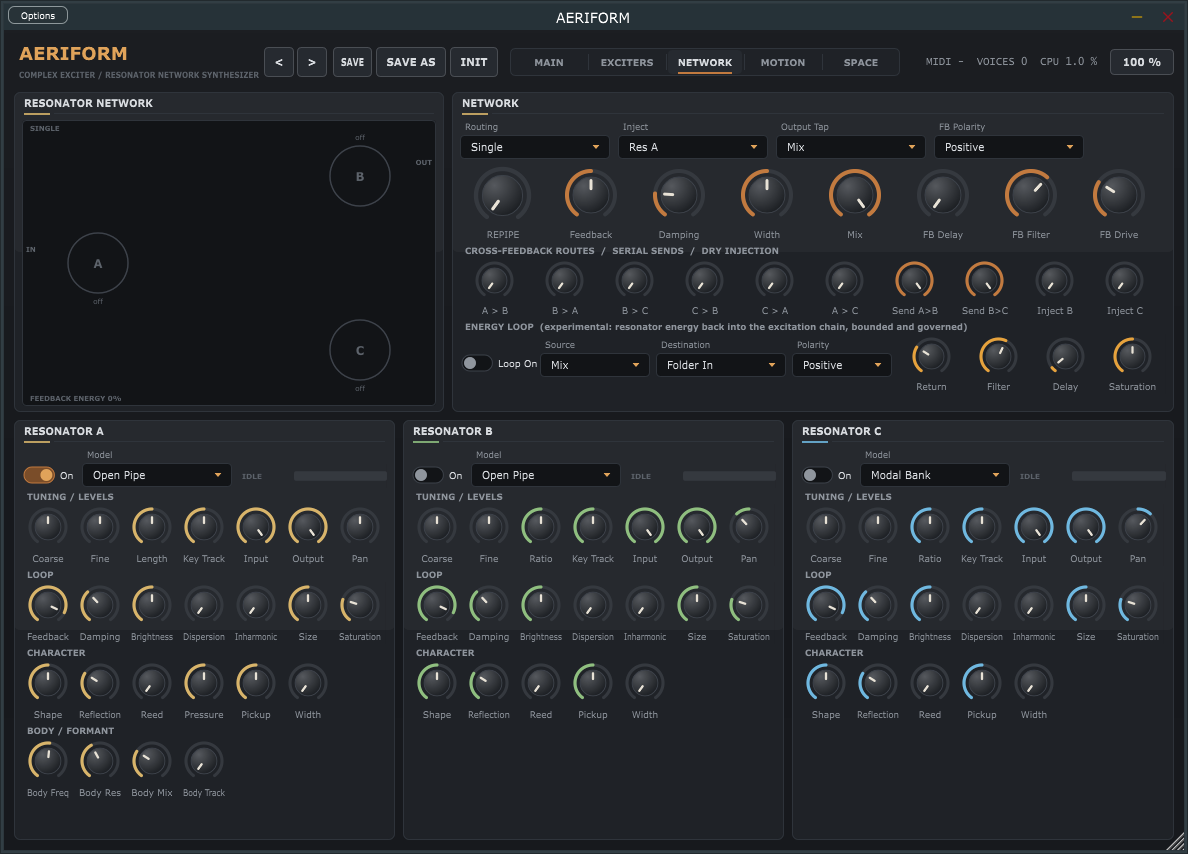
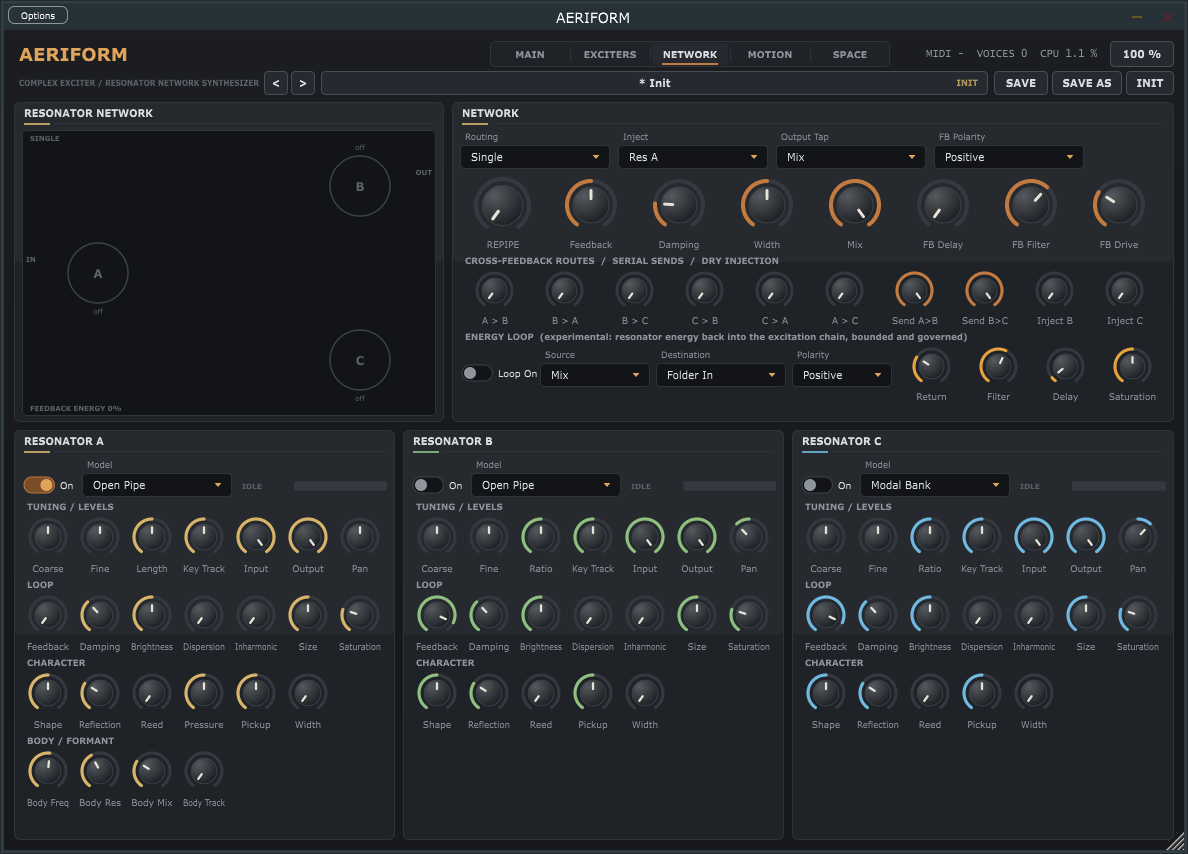
GUI: restore the preset browser (two-row top bar: tabs beside the title, full-width preset name / menu); refresh screenshots

diff --git a/Source/Plugin/PluginEditor.cpp b/Source/Plugin/PluginEditor.cpp
@@ -115,20 +115,20 @@ void AeriformEditor::layoutContent()
 {
     auto r = juce::Rectangle<int> (0, 0, editorWidth, editorHeight).reduced (10);
 
-    // ---- top bar -----------------------------------------------------------
-    auto top = r.removeFromTop (44);
-    auto titleArea = top.removeFromLeft (250);
-    titleLabel.setBounds (titleArea.removeFromTop (26));
-    subtitleLabel.setBounds (titleArea);
-    scaleButton.setBounds (top.removeFromRight (64).reduced (0, 9));
-    top.removeFromRight (8);
-    statusLabel.setBounds (top.removeFromRight (190).reduced (0, 8));
-    top.removeFromRight (12);
-    auto tabArea = top.removeFromRight (390).reduced (0, 8);
-    top.removeFromRight (12);
-    tabs.setBounds (tabArea);
-    presetBar.setBounds (top.reduced (0, 7));
-    r.removeFromTop (8);
+    // ---- top bar: row 1 = title, page tabs, status, size; row 2 = subtitle + the full-width preset browser
+    auto top = r.removeFromTop (56);
+    auto row1 = top.removeFromTop (28);
+    titleLabel.setBounds (row1.removeFromLeft (250));
+    scaleButton.setBounds (row1.removeFromRight (64).reduced (0, 1));
+    row1.removeFromRight (8);
+    statusLabel.setBounds (row1.removeFromRight (200));
+    row1.removeFromRight (12);
+    tabs.setBounds (row1.removeFromRight (400).reduced (0, 1));
+    top.removeFromTop (2);
+    auto row2 = top.removeFromTop (26);
+    subtitleLabel.setBounds (row2.removeFromLeft (250));
+    presetBar.setBounds (row2.reduced (0, 1));
+    r.removeFromTop (6);
 
     for (auto& page : pages) page->setBounds (r);
 }
